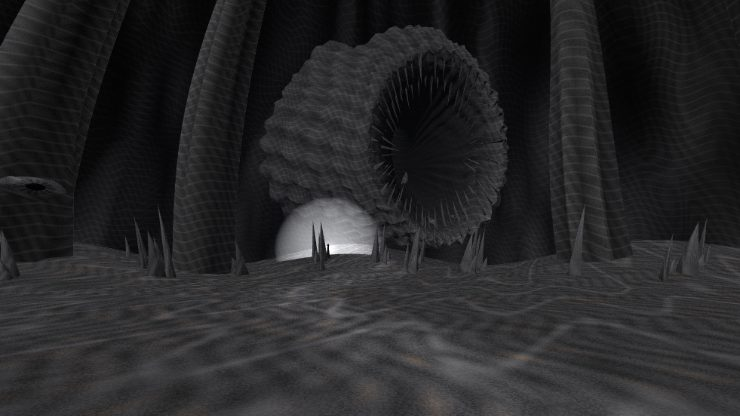
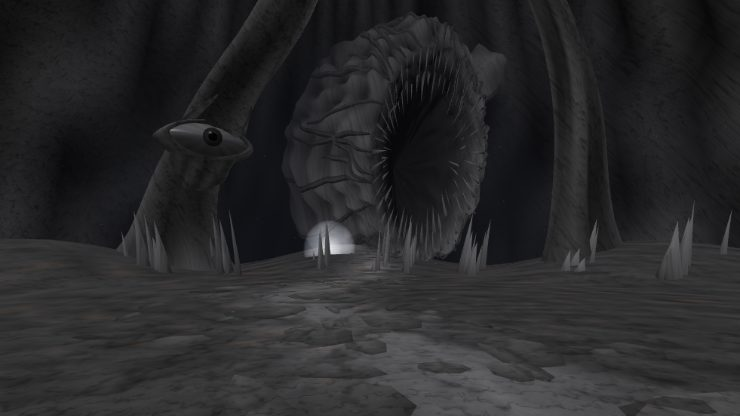
Validar a travessia e reinicializar o combate nas três formas da Ganância

diff --git a/mundo-3d-prototype.js b/mundo-3d-prototype.js
@@ -6647,7 +6647,12 @@ function startGreedBattle(){
  startDimensionBattle('greed',{hp:GREED_FORMS[0].hp,returnTo:{x:DS.offer.x-18,z:DS.offer.z+4},onVictory:greedVictory,onAbort:()=>{stopAllies6();if(act6Sandra){disposeClone(act6Sandra);act6Sandra=null;}guidePinned=false;status.textContent='Sem corações. Recupere um e coloque os fragmentos na estátua de novo.';}});
 }
 function greedIntro(){if(!dimBattle||dimBattle.key!=='greed'||questStep!==ACT6N.greed)return;playStory('ganancia',greedIntroScene(),{focus:'enemy',face:'enemy'});}
-function revealGreedForm(i){const f=GREED_FORMS[i],sp=arenaSpots('greed').boss;loadRig(f.rig).then(()=>{useRig(f.rig);revealEncounter(f.profile,sp,f.hp,'');enemy.visible=true;enemyAlive=true;bossRageAnnounced=false;if(enemyActions.arise)playEnemyAnimation('arise',.1,true);enemyAttackCooldown=2.4;const hud=document.getElementById('enemy-hud');if(hud){hud.style.display='';hud.classList.add('boss');}syncEnemyLabel();});}
+function revealGreedForm(i){const battle=dimBattle,f=GREED_FORMS[i],sp=arenaSpots('greed').boss;loadRig(f.rig).then(()=>{
+ if(!battle||dimBattle!==battle||!battle.active||act6Form!==i)return;
+ useRig(f.rig);
+ // The outgoing form stays on screen during the transformation. Re-arm
+ // encounter initialization for the new rig, health pool and attack profile.
+ enemy.visible=false;revealEncounter(f.profile,sp,f.hp,'');bossRageAnnounced=false;if(enemyActions.arise)playEnemyAnimation('arise',.1,true);enemyAttackCooldown=2.4;const hud=document.getElementById('enemy-hud');if(hud){hud.style.display='';hud.classList.add('boss');}syncEnemyLabel();});}
 /** Chamado quando uma forma da Ganância cai (true = tratado). */
 function act6GreedDefeat(){
  if(!dimBattle||dimBattle.key!=='greed'||questStep!==ACT6N.greed)return false;

diff --git a/build-info.js b/build-info.js
@@ -1,8 +1,8 @@
 // ÚNICO lugar para atualizar identidade/cache da build publicada.
 // NÃO editar HTML, loader ou mundo 3D apenas para trocar número de versão.
-export const MOD = 325;
-export const BUILD = 'mod325-agua-aurora-vulcao-costuras-16bf2b8';
-export const DESCRIPTION = 'Mod 325: costuras do terreno, água e cachoeiras, vulcão sólido e aurora animada';
+export const MOD = 326;
+export const BUILD = 'mod326-ganancia-abismo-organico';
+export const DESCRIPTION = 'Mod 326: abismo orgânico e garganta colossal na dimensão da Ganância';
 export function syncBuildMarker(marker) {
   if (!marker) return;
   marker.textContent = String(MOD);
